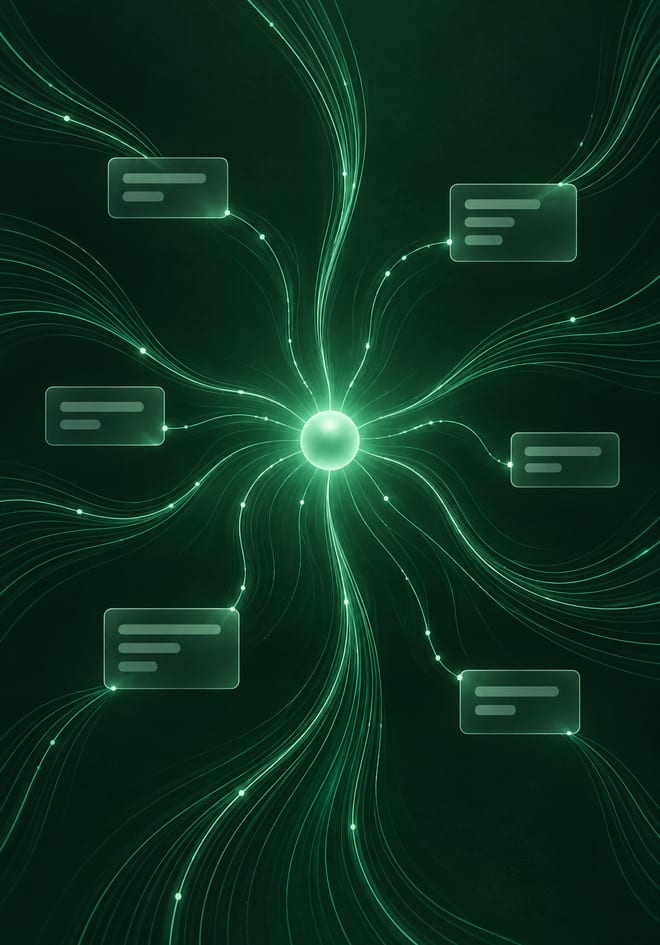
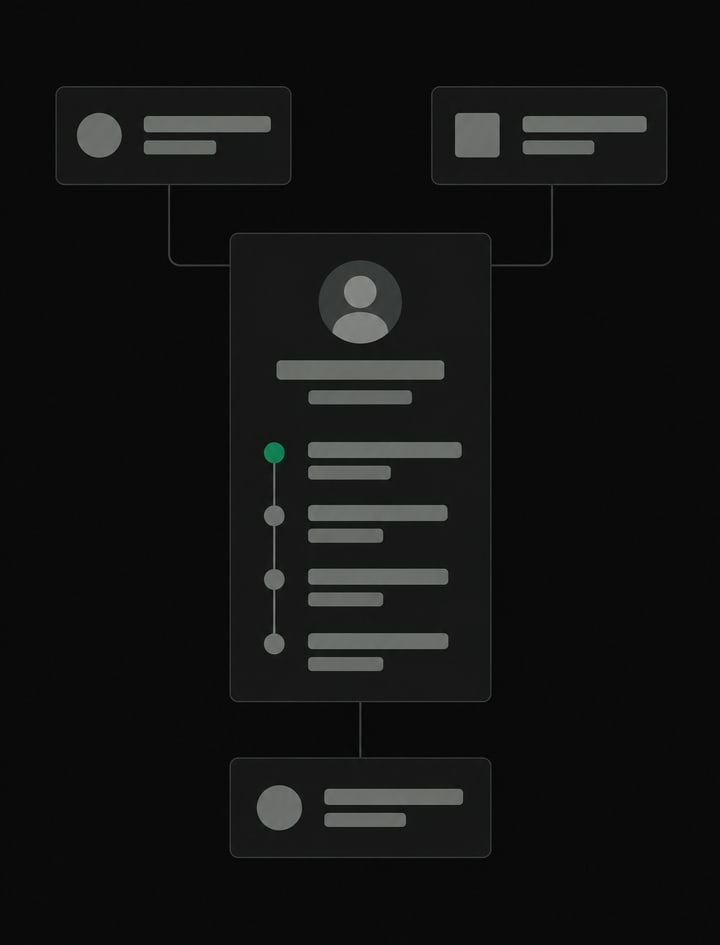
feat(website): quieter, monochrome OG cards
Website cards move to a Linear-style dark theme: near-black canvas, white type, gray support text, green only as a small accent. Page artwork is regenerated as flat monochrome UI with one emerald detail, blended into the canvas; pricing and legal cards use drawn visuals. Card files move to -v4 so social platforms refresh them; the SEO test now checks the mark renders on either theme.

diff --git a/website/src/lib/metadata.ts b/website/src/lib/metadata.ts
@@ -16,7 +16,7 @@ export const PAGE_SEO = {
     description:
       'Helpin connects projects, support, sales, and docs with AI agents that plan, build, triage, and follow up across every team.',
     canonicalPath: '/',
-    imagePath: '/og/helpin-home-green-v3.png',
+    imagePath: '/og/helpin-home-green-v4.png',
     imageAlt: 'Helpin — Bring every team together. Put AI agents to work.',
   },
   pricing: {
@@ -24,7 +24,7 @@ export const PAGE_SEO = {
     description:
       'Self-host the open-source product or choose Helpin Cloud with unlimited teammates and monthly AI usage. Compare plans, hosting and Enterprise licensing.',
     canonicalPath: '/pricing',
-    imagePath: '/og/helpin-pricing-green-v3.png',
+    imagePath: '/og/helpin-pricing-green-v4.png',
     imageAlt: 'Helpin pricing — Every module. Every teammate. One price.',
   },
   privacy: {
@@ -32,7 +32,7 @@ export const PAGE_SEO = {
     description:
       'Learn how Helpin collects, protects, and processes information across the website and connected workspace.',
     canonicalPath: '/privacy',
-    imagePath: '/og/helpin-privacy-green-v3.png',
+    imagePath: '/og/helpin-privacy-green-v4.png',
     imageAlt: 'Privacy at Helpin',
   },
   terms: {
@@ -40,7 +40,7 @@ export const PAGE_SEO = {
     description:
       'Read the terms governing access to and use of the Helpin website, workspace, AI agents, and connected services.',
     canonicalPath: '/terms',
-    imagePath: '/og/helpin-terms-green-v3.png',
+    imagePath: '/og/helpin-terms-green-v4.png',
     imageAlt: 'Helpin Terms of Service',
   },
 } as const satisfies Record<string, PageSeo>;

diff --git a/website/src/app/new/_components/preview-metadata.ts b/website/src/app/new/_components/preview-metadata.ts
@@ -3,7 +3,7 @@ import type { Metadata } from 'next';
 const POSITIONING = 'Support, projects, CRM and docs on one customer history, with AI agents.';
 export function previewMetadata(title: string, path: string, description = POSITIONING): Metadata {
   const slug = path === '/new' ? 'new-home' : path.split('/').filter(Boolean).at(-1);
-  const image = { url: `/og/helpin-${slug}-green-v3.png`, width: 1200, height: 630, type: 'image/png', alt: title };
+  const image = { url: `/og/helpin-${slug}-green-v4.png`, width: 1200, height: 630, type: 'image/png', alt: title };
   return {
     title, description, alternates: { canonical: path },
     openGraph: { title, description, url: path, siteName: 'Helpin', type: 'website', images: [image] },

diff --git a/website/scripts/generate-og-art.py b/website/scripts/generate-og-art.py
@@ -12,29 +12,30 @@ Options are written to og-art-options/<slug>-<i>.png (git-ignored scratch output
 import argparse, base64, json, os, sys, urllib.error, urllib.request
 
 STYLE = (
-    "A premium, restrained editorial illustration for a software brand, vertical composition. "
-    "Deep forest-green background (#0B2119) with a subtle lighter green radial glow. "
-    "Fine flowing line bundles in mint green (#9CDBB3) and emerald (#0F7A50), like smooth streamlines in a vortex, "
-    "curving gently through the frame with soft luminous highlights. "
-    "{subject} "
-    "UI elements are minimal frosted-glass cards with rounded corners, thin mint outlines, and blank horizontal bars instead of any writing. "
-    "Generous negative space, calm and precise, high-end SaaS brand aesthetic, subtle film grain. "
-    "Absolutely no text, no letters, no numbers, no words, no logos, no watermarks, no people, no faces."
+    "A refined, minimal product illustration for a B2B software brand, in the restrained style of Linear's marketing site. "
+    "Vertical composition on a completely flat, uniform near-black background (#0A0B0B) that reaches every edge "
+    "with no vignette, no gradients, no glow, no texture, no grain, no noise. "
+    "{subject} The UI is large and fills about 80 percent of the frame width, centered vertically. "
+    "UI elements are crisp, precise charcoal panels (#1A1D1C) with 1px hairline borders (#343937), small rounded corners, "
+    "and clear mid-gray placeholder bars (#6B736F) instead of any writing, with enough contrast to read at small sizes. Strictly monochrome grays, "
+    "with one restrained emerald accent (#0F7A50) used on a single small element only. "
+    "Perfect alignment, generous empty space, calm, confident and corporate. "
+    "Absolutely no text, no letters, no numbers, no words, no logos, no watermarks, no people, no faces, "
+    "no flowing lines, no light rays, no particles, no sparkles."
 )
 
 SUBJECTS = {
-    'home': "Many thin flowing lines from all edges converge into one softly glowing core in the middle of the frame, suggesting a single shared customer history.",
-    'pricing': "Only flowing line bundles, no cards or objects: a calm wave of lines sweeps across the lower third and the top edge, leaving a large, empty, softly lit dark area in the middle of the frame.",
-    'product': "Six small frosted-glass tiles float in a loose ring, each connected by a fine glowing line to a single bright core at the center.",
-    'customer-support': "A vertical stack of three blank chat bubbles follows a glowing path that ends at a small circular checkmark badge, suggesting a request that was resolved.",
-    'projects': "Three slim kanban columns of blank task cards; one glowing line runs from a small chat bubble at the top into one highlighted card, linking a customer request to the work.",
-    'crm': "A left-to-right sequence of four rounded pipeline stages with small deal cards moving through them, and a soft pulse ring radiating from the most advanced card.",
-    'meetings': "A smooth audio waveform on the upper part of the frame flows downward and transforms into a neat stack of three blank task cards.",
-    'knowledge': "A layered stack of blank document pages, with a soft vertical beam of light passing through them like a search highlighting one page.",
-    'ai-agents': "Eight small glowing orbs travel on elegant elliptical orbits around one brighter central core, like coordinated specialists.",
-    'developers': "A frosted-glass terminal window with blank lines of code, a pair of curly-brace shapes floating nearby, and a small plug connector linked by a glowing line.",
-    'self-hosting': "A compact server block inside a dashed rounded boundary, with a few fine lines reaching out past the boundary to small optional nodes outside it.",
-    'branding': "A single elegant vortex of flowing mint lines spiraling around a calm, softly glowing center.",
+    'home': "A single clean panel in the center shows one customer record: a small avatar circle at the top and a short vertical timeline of four rows beneath it, with thin connector lines to three smaller cards around it labeled only with placeholder bars.",
+    'product': "Six small, evenly spaced square tiles arranged in a neat two-by-three grid, each with one simple line icon and a placeholder bar; one tile has the emerald accent.",
+    'customer-support': "A conversation panel with three message rows, alternating left and right, and a small resolved status pill at the bottom with an emerald checkmark.",
+    'projects': "A clean board with three columns of task cards; one card in the middle column is highlighted with an emerald left edge.",
+    'crm': "A horizontal pipeline of four stage columns with a few deal cards in each; the rightmost column's top card carries the emerald accent.",
+    'meetings': "A meeting panel with a thin monochrome audio waveform at the top and, beneath it, a short list of three action-item rows with checkboxes, one checked in emerald.",
+    'knowledge': "A document panel with a title bar and several paragraph lines, a small search field above it, and one highlighted paragraph marked with a thin emerald bar.",
+    'ai-agents': "A small central panel connected by thin straight gray lines to six smaller agent panels arranged evenly around it; one connection is emerald.",
+    'developers': "A terminal-style panel with a title bar and several lines of placeholder code, beside a small card showing a pair of curly braces as a simple line icon; the cursor is emerald.",
+    'self-hosting': "A single server icon inside a dashed rounded rectangle, with three thin gray lines leading out to small optional service tiles outside the boundary; the server's status dot is emerald.",
+    'branding': "A tidy brand board: a row of four color swatch tiles (near-black, charcoal, light gray and one emerald), and beneath it a larger type-specimen panel showing only placeholder bars of different weights.",
 }
 
 

diff --git a/website/scripts/assets/og-art/README.md b/website/scripts/assets/og-art/README.md
@@ -1,19 +1,24 @@
 # OG card artwork
 
-Text-free artwork panels for the website's social preview cards. `scripts/generate-og-images.mjs`
-draws all text (Instrument Sans) and places the matching panel on the right 440px of each card.
-A card without an artwork file falls back to its drawn visual.
+Text-free artwork for the website's social preview cards. `scripts/generate-og-images.mjs`
+draws all text (Instrument Sans) on a near-black canvas and places the matching artwork on the
+right 480px of each card, fading its left edge into the canvas. A card without an artwork file
+falls back to its drawn visual. Pricing and the legal cards use drawn visuals only.
+
+Style: quiet and monochrome, in the spirit of Linear's marketing. Flat near-black background
+(`#0A0B0B`), charcoal UI panels with hairline borders, gray placeholder bars, and one small
+emerald accent. No glow, gradients, grain or decorative lines.
 
 - Model: `gpt-image-2.5-sunburst`, 1024x1536, medium quality (September 2026)
 - Prompts: `STYLE` and `SUBJECTS` in `scripts/generate-og-art.py`
-- Stored as JPEG, 660x945 (the 440x630 panel at 1.5x), centre-cropped, quality 82
+- Stored as JPEG, 720x945 (the 480x630 area at 1.5x), centre-cropped, quality 86
 
 ## Regenerate a panel
 
 1. `OPENAI_API_KEY=... python3 scripts/generate-og-art.py <slug>` writes options to `og-art-options/`.
-2. Review the options and pick one. It must contain no text.
-3. Crop and compress it to `scripts/assets/og-art/<slug>.jpg` at 660x945. For example, with sharp:
-   `sharp(src).resize(660, 945, { fit: 'cover' }).jpeg({ quality: 82, mozjpeg: true })`.
+2. Review the options and pick one. It must contain no text, and its background must stay flat.
+3. Crop and compress it to `scripts/assets/og-art/<slug>.jpg` at 720x945. For example, with sharp:
+   `sharp(src).resize(720, 945, { fit: 'cover' }).jpeg({ quality: 86, mozjpeg: true })`.
 4. `HELPIN_OG_VARIANT=<slug> pnpm generate:og`, then check the card in `public/og/`.
-
-The pricing panel is a background only; its text is drawn by `pricingVisual(true)`.
+5. If the card's content changed, bump `VERSION` in `generate-og-images.mjs` and the matching paths in
+   `src/lib/metadata.ts`, `src/app/new/_components/preview-metadata.ts` and `tests/seo-metadata.test.mjs`.
